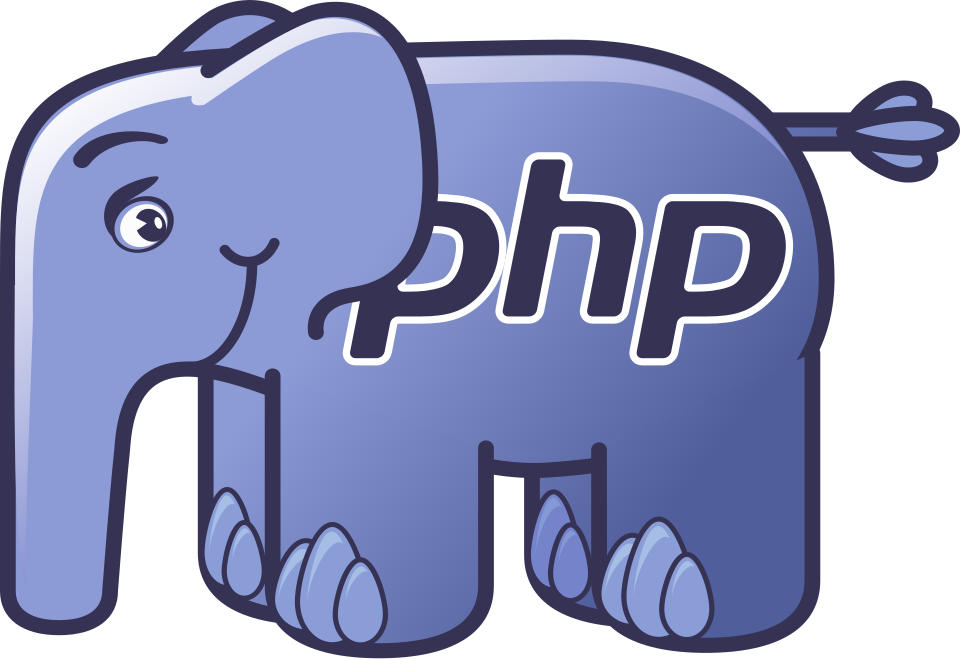
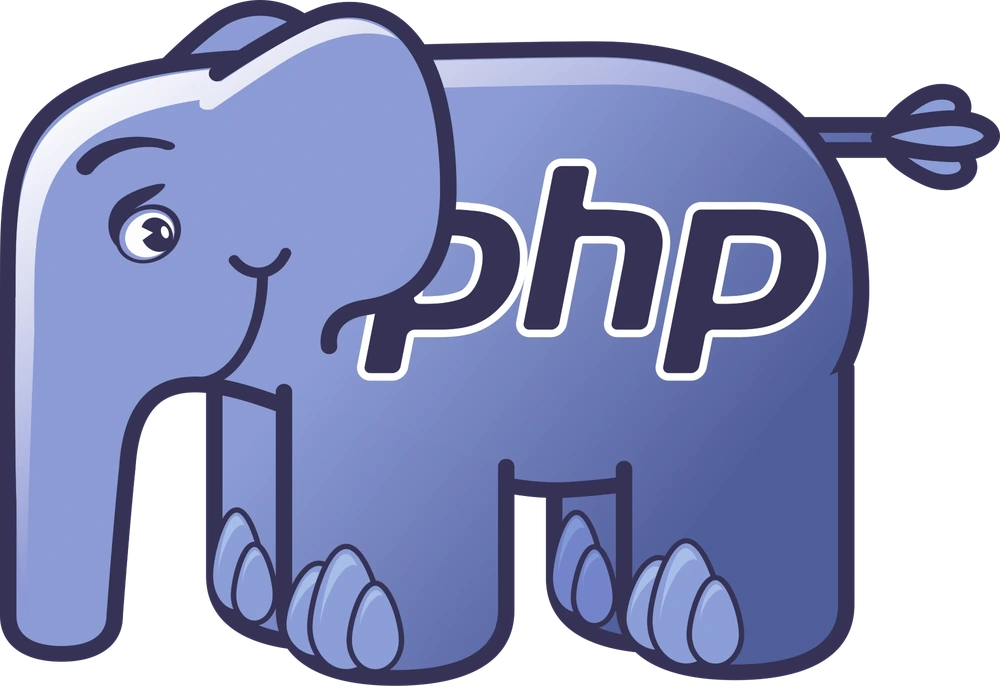
Pupila con la forma del dibujo original, elefante en alta resolución y pantalla de carga con el elefante corriendo

Changed region(s): [[0.3438, 0.9712, 0.4375, 1.0], [0.2812, 0.9408, 0.3125, 0.9712]]

diff --git a/public/css/style.css b/public/css/style.css
@@ -198,41 +198,31 @@ hr {
 }
 
 /* Ojo blanco que tapa el ojo original del dibujo.
- * Las medidas son en % de la imagen (960x659 px): el ojo empieza en
- * x=121, y=205 y mide 44x41 px. Así encaja a cualquier tamaño. */
+ * Las medidas son en % de la imagen original (2000x1372 px): el blanco
+ * del ojo empieza en x=251, y=426 y mide 96x88 px. Así encaja a
+ * cualquier tamaño. overflow: hidden recorta la pupila por el borde
+ * del ojo, como pasa en el dibujo. */
 .ojo {
     position: absolute;
-    left: calc(121 / 960 * 100%);
-    top: calc(205 / 659 * 100%);
-    width: calc(44 / 960 * 100%);
-    height: calc(41 / 659 * 100%);
+    left: calc(251 / 2000 * 100%);
+    top: calc(426 / 1372 * 100%);
+    width: calc(96 / 2000 * 100%);
+    height: calc(88 / 1372 * 100%);
     background: #fff;
     border-radius: 50%;
+    overflow: hidden;
 }
 
-/* Pupila: la mueve el JavaScript desde el centro del ojo */
+/* Pupila (un SVG pequeño): la mueve el JavaScript desde el centro del ojo.
+ * Mide unos 72 px en la imagen: 72/96 del ancho del ojo y 72/88 del alto */
 .pupila {
     position: absolute;
     left: 50%;
     top: 50%;
-    width: 50%;
-    height: 54%;
-    background: var(--tinta);
-    border-radius: 50%;
+    width: calc(72 / 96 * 100%);
+    height: calc(72 / 88 * 100%);
     transform: translate(-50%, -50%);
     transition: transform 0.08s linear;
-}
-
-/* Brillito blanco de la pupila */
-.pupila::after {
-    content: "";
-    position: absolute;
-    top: 22%;
-    right: 20%;
-    width: 30%;
-    height: 30%;
-    background: #fff;
-    border-radius: 50%;
 }
 
 /* Dentro de la portada el buscador va sobre fondo lila */
@@ -469,6 +459,73 @@ footer {
     font-size: 0.9rem;
 }
 
+
+/* ---------- Pantalla de carga: el elefante corriendo ----------
+ * Tapa toda la ventana. Empieza invisible (opacity 0) y sin recibir
+ * clics; carga.js le pone la clase "visible" si la página tarda. */
+#pantalla-carga {
+    position: fixed;
+    inset: 0;
+    z-index: 1000;
+    display: flex;
+    flex-direction: column;
+    justify-content: center;
+    align-items: center;
+    gap: 18px;
+    background: rgba(46, 42, 79, 0.97);
+    color: #fff;
+    font-family: "Fredoka", sans-serif;
+    font-size: 1.4rem;
+    opacity: 0;
+    pointer-events: none;
+    transition: opacity 0.25s;
+}
+
+#pantalla-carga.visible {
+    opacity: 1;
+    pointer-events: auto;
+}
+
+/* La "pista": una franja con el suelo dibujado abajo (línea discontinua) */
+#pantalla-carga .pista {
+    position: relative;
+    width: min(700px, 90vw);
+    height: 140px;
+    overflow: hidden;
+    border-bottom: 4px dashed var(--php-claro);
+}
+
+/* El elefante mira a la izquierda, así que corre de derecha a izquierda.
+ * Dos animaciones a la vez: cruzar la pista y dar saltitos al trotar */
+#pantalla-carga .corredor {
+    position: absolute;
+    bottom: 4px;
+    width: 150px;
+    animation:
+        cruzar 2.2s linear infinite,
+        trotar 0.3s ease-in-out infinite alternate;
+}
+
+@keyframes cruzar {
+    from { left: 100%; }
+    to   { left: -160px; }
+}
+
+@keyframes trotar {
+    from { transform: translateY(0) rotate(2deg); }
+    to   { transform: translateY(-14px) rotate(-3deg); }
+}
+
+/* El texto "Cargando…" se aclara y oscurece despacio */
+#pantalla-carga p {
+    margin: 0;
+    animation: latir 1s ease-in-out infinite alternate;
+}
+
+@keyframes latir {
+    from { opacity: 0.5; }
+    to   { opacity: 1; }
+}
 
 /* ---------- Móvil: menos márgenes y el elefante más pequeño ---------- */
 @media (max-width: 640px) {

diff --git a/public/js/carga.js b/public/js/carga.js
@@ -1,0 +1,39 @@
+/* #####################################################################
+ *  PANTALLA DE CARGA (la incluye footer.php en todas las páginas)
+ *  Al pulsar un enlace o enviar un formulario, si la página siguiente
+ *  tarda más de 400 ms en llegar, sale el elefante de PHP corriendo.
+ *  Si carga rápido, no da tiempo a verla (no molesta).
+ *  Cuando llega la página nueva, esta desaparece sola con todo lo demás.
+ * ##################################################################### */
+
+const pantalla = document.getElementById('pantalla-carga');
+let temporizador = null;
+
+function empezarCarga() {
+    clearTimeout(temporizador);
+    temporizador = setTimeout(() => pantalla.classList.add('visible'), 400);
+}
+
+if (pantalla) {
+    // Enlaces de la propia web (no los que abren otra pestaña o van a #)
+    document.addEventListener('click', (evento) => {
+        const enlace = evento.target.closest('a');
+        if (enlace && enlace.origin === location.origin && !enlace.hash && enlace.target !== '_blank') {
+            empezarCarga();
+        }
+    });
+
+    // Formularios: solo si de verdad se envían (el confirm() de borrar puede cancelarlo)
+    document.addEventListener('submit', (evento) => {
+        if (!evento.defaultPrevented) {
+            empezarCarga();
+        }
+    });
+
+    // Al volver con el botón "Atrás" el navegador puede mostrar la página
+    // guardada en memoria: me aseguro de que la pantalla no siga puesta
+    window.addEventListener('pageshow', () => {
+        clearTimeout(temporizador);
+        pantalla.classList.remove('visible');
+    });
+}

diff --git a/public/js/ojo-elefante.js b/public/js/ojo-elefante.js
@@ -16,7 +16,7 @@ function moverPupila(x, y) {
 
 // Posición de reposo: un poco a la derecha, como en el dibujo original
 function reposo() {
-    moverPupila(ojo.offsetWidth * 0.18, 0);
+    moverPupila(ojo.offsetWidth * 0.2, 0);
 }
 
 if (portada && ojo && pupila) {
@@ -30,8 +30,9 @@ if (portada && ojo && pupila) {
         const angulo = Math.atan2(evento.clientY - centroY, evento.clientX - centroX);
 
         // Lo máximo que puede moverse sin salirse de lo blanco
-        const maxX = caja.width * 0.26;
-        const maxY = caja.height * 0.24;
+        // (el ojo recorta lo que sobresale, así que puede llegar al borde)
+        const maxX = caja.width * 0.22;
+        const maxY = caja.height * 0.2;
 
         moverPupila(Math.cos(angulo) * maxX, Math.sin(angulo) * maxY);
     });

diff --git a/src/Views/posts/index.php b/src/Views/posts/index.php
@@ -36,7 +36,15 @@ require __DIR__ . '/../partials/header.php';
      hecho con HTML, cuya pupila mueve public/js/ojo-elefante.js -->
 <div class="elefante">
     <img src="/img/elefante-php.webp" alt="Elefante de PHP">
-    <div class="ojo"><div class="pupila"></div></div>
+    <div class="ojo">
+        <!-- Pupila con la misma forma que la del dibujo: disco oscuro con
+             una muesca "<" a la izquierda y un brillo ovalado a la derecha -->
+        <svg class="pupila" viewBox="0 0 66 66" aria-hidden="true">
+            <circle cx="33" cy="33" r="33" fill="#2e2a4f"/>
+            <polygon points="-2,16 17,34 -2,55" fill="#fff"/>
+            <ellipse cx="46.5" cy="27.5" rx="7.5" ry="11.5" fill="#fff"/>
+        </svg>
+    </div>
 </div>
 </section>
 

diff --git a/src/Views/partials/footer.php b/src/Views/partials/footer.php
@@ -4,5 +4,15 @@
     <footer>
         Hecho con <span class="etiqueta">PHP 8.3</span> · Práctica final 2.8
     </footer>
+
+    <!-- Pantalla de carga: el elefante de PHP corriendo por el suelo.
+         Está escondida; la enseña public/js/carga.js si la página tarda -->
+    <div id="pantalla-carga" aria-hidden="true">
+        <div class="pista">
+            <img src="/img/elefante-php.webp" alt="" class="corredor">
+        </div>
+        <p>Cargando…</p>
+    </div>
+    <script src="/js/carga.js"></script>
 </body>
 </html>
